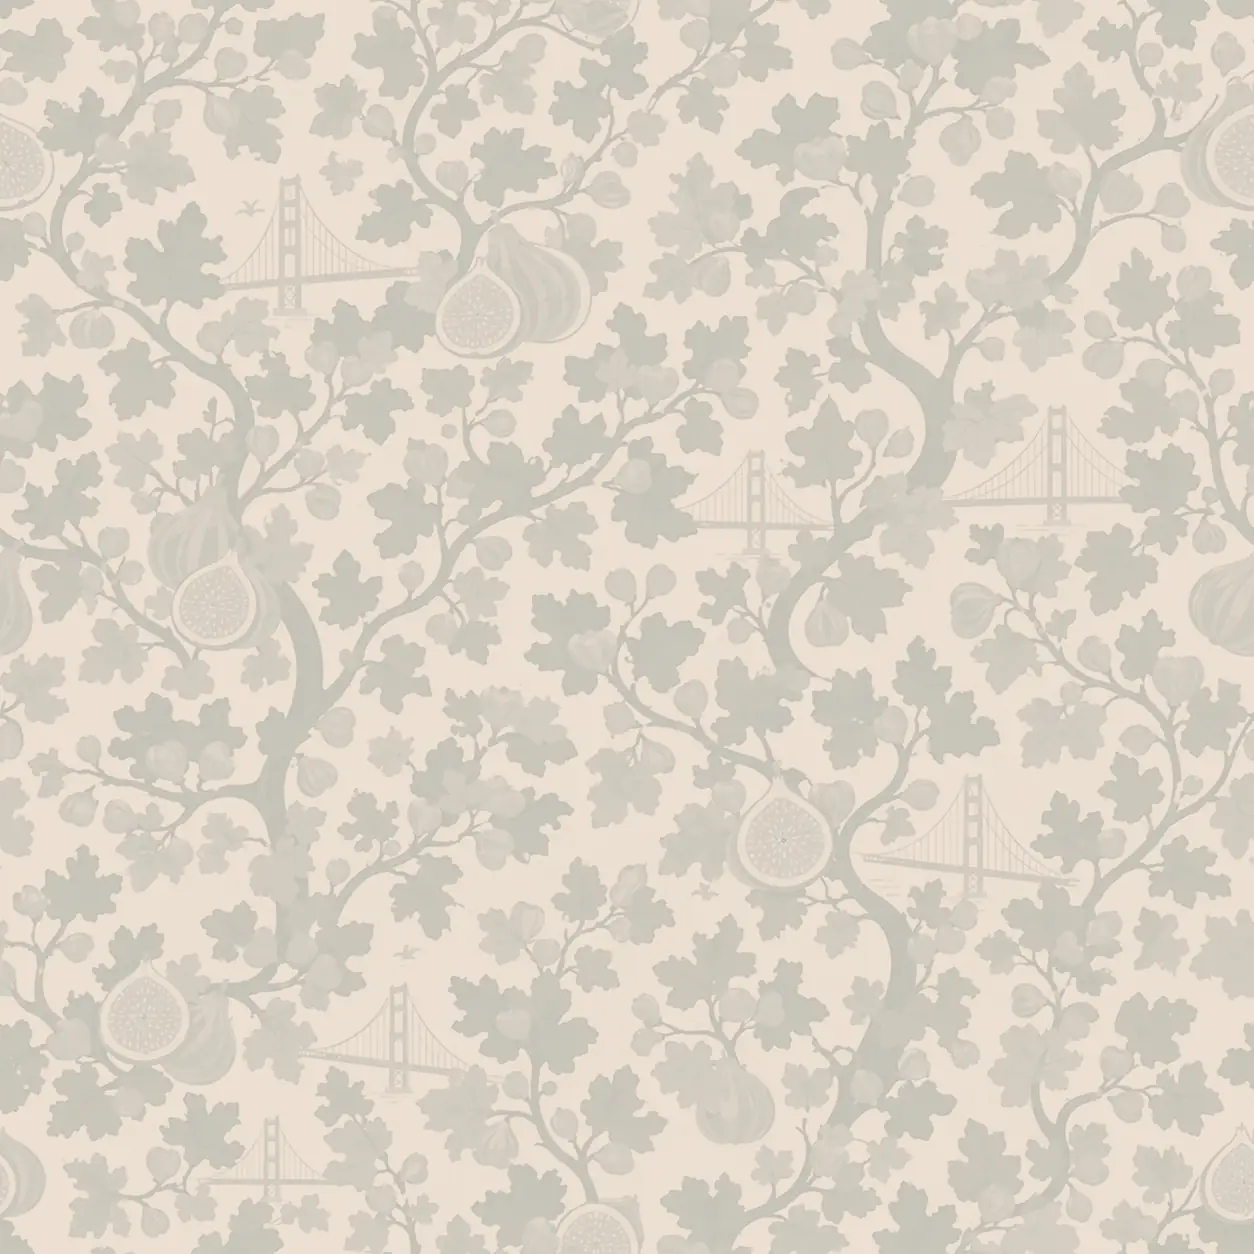
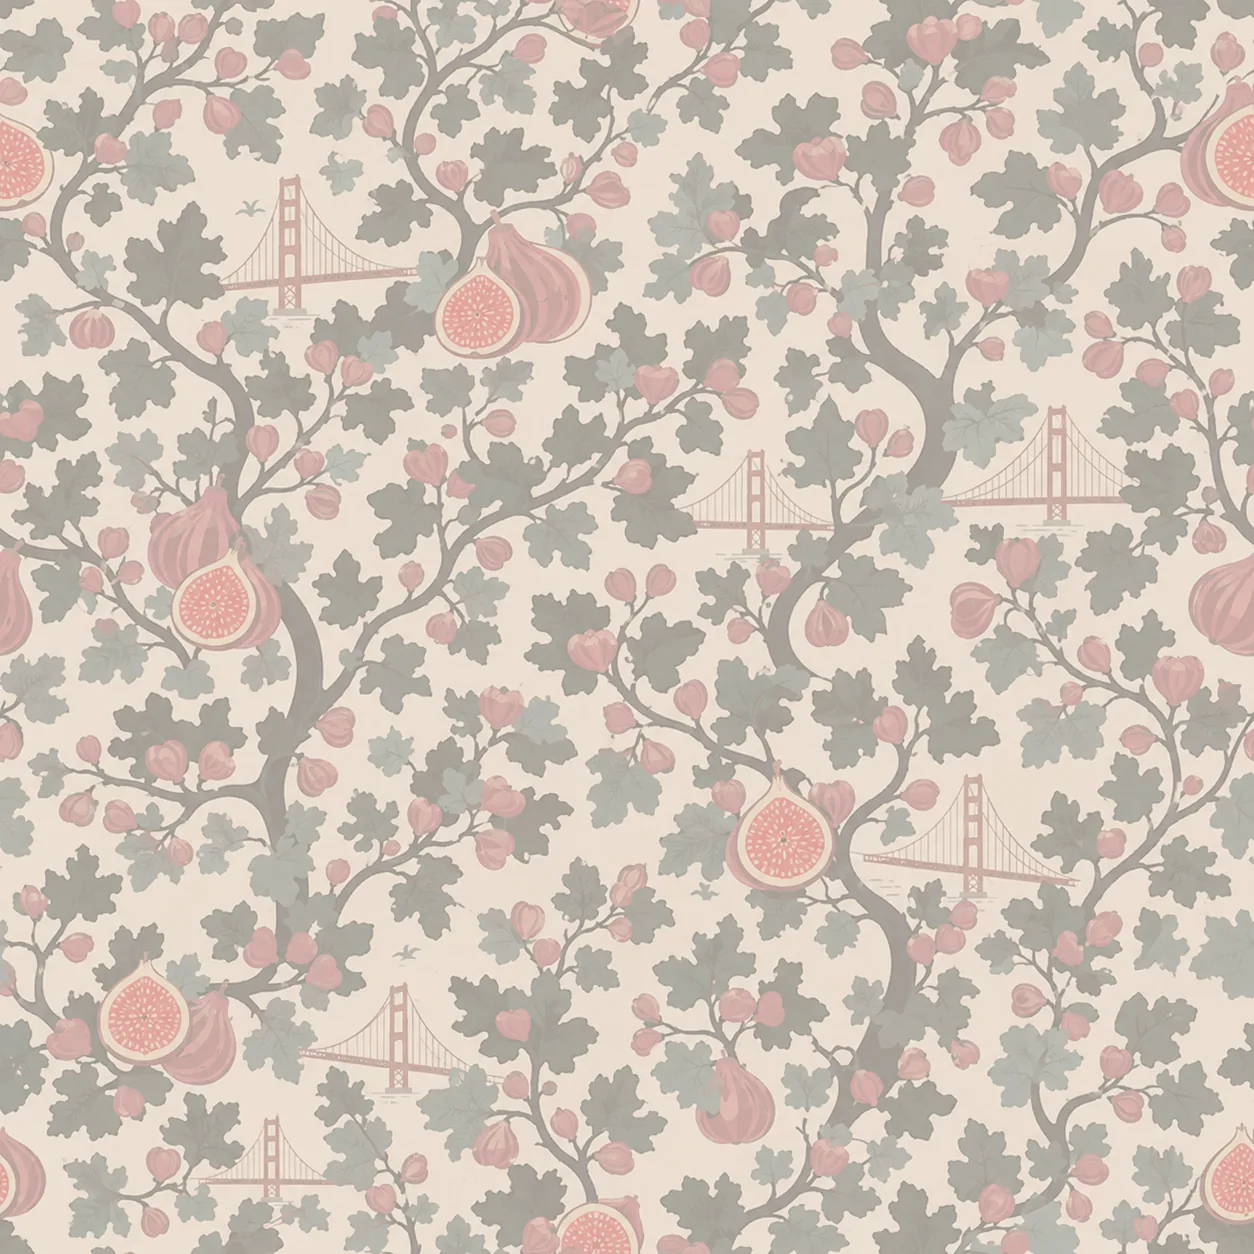
feat(home): pattern iteration per Team Lead ruling — colored wall, no bands/motif
Applies the four ruled changes to the Home prototype: drop the Golden Gate
hero motif, remove both full-color accent bands (the disliked two-toned
read), grow the arched hero photo (4:3 mobile, 10:7 desktop) to absorb the
vacated space, and regenerate wall-tile.webp as a soft full-color derivative
(source blended over token cream at 35% opacity — figs faintly red, foliage
green). Hero panel moves to var(--color-surface) to match the quick-link
cards now that the motif's cream-ground constraint is gone. Seam re-verified
on a 2x2 composite at the new strength; docs/pattern-assets.md updated to
describe the new derivation. Other routes untouched.

Generated with [Claude Code](https://claude.ai/code)
via [Happy](https://happy.engineering)

diff --git a/src/app/page.module.css b/src/app/page.module.css
@@ -1,16 +1,18 @@
 /*
- * Home page. Layout: full-color accent band, hero (image slot +
- * names/date/venue on a cream panel), a 2x2 grid of quick-link cards, and a
- * closing accent band. On phones the cards stack into a single column.
+ * Home page. Layout: hero (arched image slot + names/date/venue on a solid
+ * panel), then a 2x2 grid of quick-link cards. On phones the cards stack
+ * into a single column.
  *
- * Layered invitation-pattern treatment (Home-only prototype):
- *   wall  — muted duotone tile behind everything, scoped to this wrapper so
- *           other routes stay on the plain theme background;
- *   panels — text lives on solid cream, never on the pattern, so the
- *           palette's verified contrast ratios hold as-is;
- *   accents — the full-color art appears only in text-free zones.
- * The treatment is static by design: no parallax, no background-attachment,
- * nothing for prefers-reduced-motion to disable.
+ * Layered invitation-pattern treatment (Home-only prototype, per the Team
+ * Lead's ruling on it):
+ *   wall  — softly colored pattern tile behind everything, scoped to this
+ *           wrapper so other routes stay on the plain theme background;
+ *   panels — text lives on solid surfaces, never on the pattern, so the
+ *           palette's verified contrast ratios hold as-is.
+ * The ruling dropped the earlier full-color accent bands and hero motif:
+ * the wall alone carries the pattern. The treatment is static by design:
+ * no parallax, no background-attachment, nothing for prefers-reduced-motion
+ * to disable.
  */
 
 .wall {
@@ -24,20 +26,6 @@
   background-size: 680px auto;
 }
 
-/*
- * Text-free band of the full-color pattern, bookending the page. Sized so a
- * single row of figs/foliage reads clearly inside the strip; hairline rules
- * frame it like a printed ribbon.
- */
-.accentBand {
-  height: clamp(4rem, 9vw, 6.5rem);
-  border-block: 1px solid var(--color-border);
-  background-image: url("/pattern/tile-full.webp");
-  background-repeat: repeat;
-  background-size: 420px auto;
-  background-position: center;
-}
-
 .page {
   max-width: 64rem;
   margin: 0 auto;
@@ -45,10 +33,10 @@
 }
 
 /*
- * The hero is the invitation's cream window over the patterned wall. It uses
- * --color-background (not surface) because the motif ornament's ground is
- * normalized to exactly that cream — on any other color the motif would show
- * as a rectangle (see docs/pattern-assets.md).
+ * The hero is the invitation's clean window over the patterned wall. It uses
+ * --color-surface to match the quick-link cards, so every panel floating on
+ * the wall shares one surface color. (The earlier --color-background choice
+ * existed only to melt the since-removed motif ornament's cream ground.)
  */
 .hero {
   display: flex;
@@ -56,22 +44,27 @@
   gap: 1.5rem;
   margin-bottom: 2.5rem;
   padding: 1rem 1rem 1.5rem;
-  background: var(--color-background);
+  background: var(--color-surface);
   border: 1px solid var(--color-border);
   border-radius: 28px;
 }
 
 /*
- * Hero image slot. Sized for a 16:9 landscape hero photo. The slot holds either
- * a next/image (fill) when `public/hero.jpg` exists, or the placeholder label
- * when it does not — both fill this same box, so swapping causes no layout
- * shift. `position: relative` + `aspect-ratio: 16/9` is exactly what next/image
- * needs in fill mode. See src/lib/hero-image.ts for the drop-in path.
+ * Hero image slot. The slot holds either a next/image (fill) when
+ * `public/hero.jpg` exists, or the placeholder label when it does not — both
+ * fill this same box, so swapping causes no layout shift. `position:
+ * relative` + `aspect-ratio` is exactly what next/image needs in fill mode.
+ * See src/lib/hero-image.ts for the drop-in path.
+ *
+ * The box is taller than the photo's native 16:9 (`object-fit: cover` crops
+ * the sides) so the arch dominates the panel — the Team Lead's ruling asked
+ * for a taller window once the motif ornament came out. Subjects sit in the
+ * photo's center, clear of the arch's top-corner crop.
  */
 .imageSlot {
   position: relative;
   width: 100%;
-  aspect-ratio: 16 / 9;
+  aspect-ratio: 4 / 3;
   overflow: hidden;
   /*
    * Arched top — the photo is seen through the invitation's arch window. The
@@ -133,20 +126,6 @@
   color: var(--color-text-muted);
 }
 
-/*
- * Golden Gate vignette from the invitation art, closing the hero panel. Kept
- * as a background image (not <img>) because it is pure decoration.
- */
-.heroOrnament {
-  width: min(11rem, 60%);
-  aspect-ratio: 370 / 240;
-  margin: 0 auto;
-  background-image: url("/pattern/motif-bridge.webp");
-  background-size: contain;
-  background-repeat: no-repeat;
-  background-position: center;
-}
-
 .cardsHeading {
   /*
    * Visually hidden — sighted users see the cards directly, but screen readers
@@ -184,5 +163,14 @@
     gap: 2rem;
     margin-bottom: 3rem;
     padding: 1.75rem 1.75rem 2.25rem;
+  }
+
+  /*
+   * Slightly wider than 4:3 on desktop — a full 4:3 crop of the landscape
+   * photo gets tight on the couple at large panel widths; 10:7 keeps the
+   * taller-than-16:9 arch without over-cropping.
+   */
+  .imageSlot {
+    aspect-ratio: 10 / 7;
   }
 }

diff --git a/src/app/page.tsx b/src/app/page.tsx
@@ -34,29 +34,23 @@ const QUICK_LINKS = [
 
 export default function Home() {
   // Drop-in hero photo: when HERO_PHOTO_PRESENT is true it renders via
-  // next/image (fill, priority); otherwise the same 16:9 slot shows a graceful
-  // placeholder. Both occupy the identical aspect-ratio box — no layout shift.
+  // next/image (fill, priority); otherwise the same arched slot shows a
+  // graceful placeholder. Both occupy the identical aspect-ratio box — no
+  // layout shift.
   // `unoptimized` serves /hero.jpg directly (the file is already optimized to
   // ~250KB) rather than the Next image optimizer, whose support is not
   // guaranteed under OpenNext/Workers.
   // See src/lib/hero-image.ts for the presence flag, path, and alt convention.
 
   // Layered invitation-pattern treatment, Home only. The wall wrapper (not
-  // body/globals) carries the muted duotone tile so no other route inherits
-  // it; text always sits on the solid cream panels floating above the wall.
-  // The full-color pattern appears only in the text-free accent bands and the
-  // motif ornament — never behind copy. All decorative layers are aria-hidden
-  // background images: screen readers get only the real content.
+  // body/globals) carries the softly colored pattern tile so no other route
+  // inherits it; text always sits on the solid panels floating above the
+  // wall, never on the pattern itself. The Team Lead's prototype ruling
+  // dropped the earlier full-color accent bands and hero motif — the wall
+  // alone carries the pattern now.
 
   return (
     <div className={styles.wall}>
-      {/*
-        Full-color pattern band at the top of the page. On phones the
-        full-width panels cover most of the wall, so these bands are what keep
-        the invitation pattern visible at small viewports.
-      */}
-      <div className={styles.accentBand} aria-hidden="true" />
-
       <div className={styles.page}>
         <section className={styles.hero} aria-labelledby="hero-name">
           <div className={styles.imageSlot}>
@@ -82,13 +76,6 @@ export default function Home() {
             <p className={styles.heroDate}>Saturday, October 24, 2026</p>
             <p className={styles.heroVenue}>Che Fico · San Francisco</p>
           </div>
-
-          {/*
-            Golden Gate motif under the venue line — a text-free zone on the
-            cream panel, which the motif's cream ground is normalized to melt
-            into (see docs/pattern-assets.md).
-          */}
-          <div className={styles.heroOrnament} aria-hidden="true" />
         </section>
 
         <section aria-labelledby="quick-links-heading">
@@ -107,9 +94,6 @@ export default function Home() {
           </div>
         </section>
       </div>
-
-      {/* Bottom bookend of the top accent band, closing the page above the footer. */}
-      <div className={styles.accentBand} aria-hidden="true" />
     </div>
   );
 }

diff --git a/docs/pattern-assets.md b/docs/pattern-assets.md
@@ -7,21 +7,24 @@ edit these files in place.
 
 | Asset | Size | Intended zone |
 | --- | --- | --- |
-| `wall-tile.webp` | 1254×1254, ~49 KB | Page-background "wall" behind cream content panels. Tile with `background-repeat: repeat`; display width ~600–900px per tile on desktop (native 1254px keeps it retina-crisp at 2x). |
+| `wall-tile.webp` | 1254×1254, ~139 KB | Page-background "wall" behind solid content panels. Tile with `background-repeat: repeat`; display width ~600–900px per tile on desktop (native 1254px keeps it retina-crisp at 2x). |
 | `tile-full.webp` | 1254×1254, ~259 KB | Full-color art for text-free accent zones only: hero band, section dividers. Never behind body text. |
 | `motif-fig-branch.webp` | 350×340, ~28 KB | Standalone fig-branch vignette for corner/divider ornament use. |
 | `motif-bridge.webp` | 370×240, ~19 KB | Standalone Golden Gate vignette for corner/divider ornament use. |
 
 ## Derivation
 
-**`wall-tile.webp` (muted duotone):** greyscale of the source, levels set so the
-tile's ground maps to white, then a linear two-color ramp from the theme
-background cream `#ECDFD1` (light end) down to `rgb(193,191,181)` — a 45% blend
-of cream toward the theme sage `#8D9792` (`--color-accent-2`). The darkest art
-elements sit ~12 L* below the cream ground, so the pattern reads as
-near-watermark texture, not full art. The source's faint left/right wrap seam
-falls below visibility at this contrast; a 2×2 tiled composite was inspected at
-1:1 and display scale on both axes with no visible wrap line.
+**`wall-tile.webp` (soft full-color, 35% strength):** the full-color source
+alpha-composited over a solid theme-background-cream `#ECDFD1` ground at 35%
+opacity (`Image.blend(cream, source, 0.35)`, WebP quality 82). Figs read
+faintly red and foliage green while every value stays lifted well toward
+cream, so the pattern stays a wall, not the content. This replaced the
+original sage duotone after the Team Lead's Home-prototype ruling asked for
+more of the invitation's color in the wall. A 25%-opacity variant was the
+runner-up candidate; regenerate either by re-running the blend at the chosen
+opacity. The source's faint left/right wrap seam stays below visibility at
+this strength; a 2×2 tiled composite was re-inspected on both axes at 1:1
+with no visible wrap line.
 
 **`tile-full.webp`:** the source tile re-encoded as WebP (quality 78), no other
 changes.
